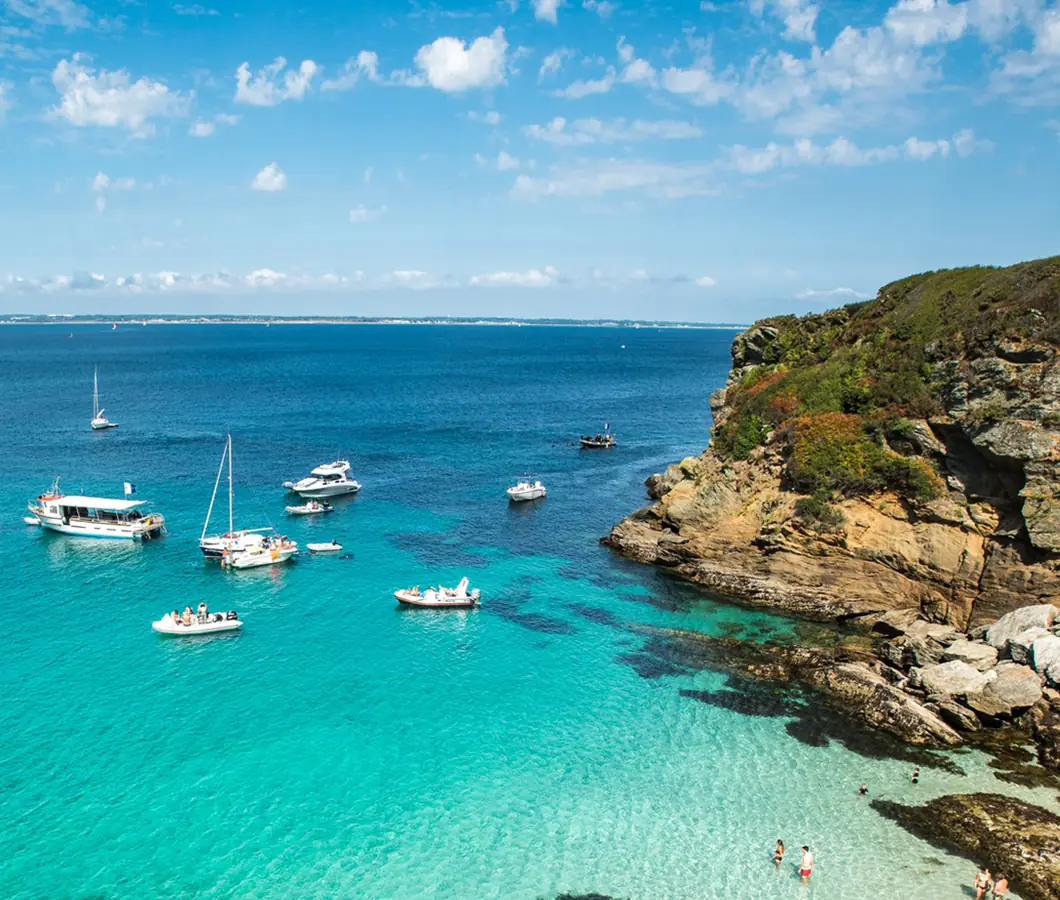
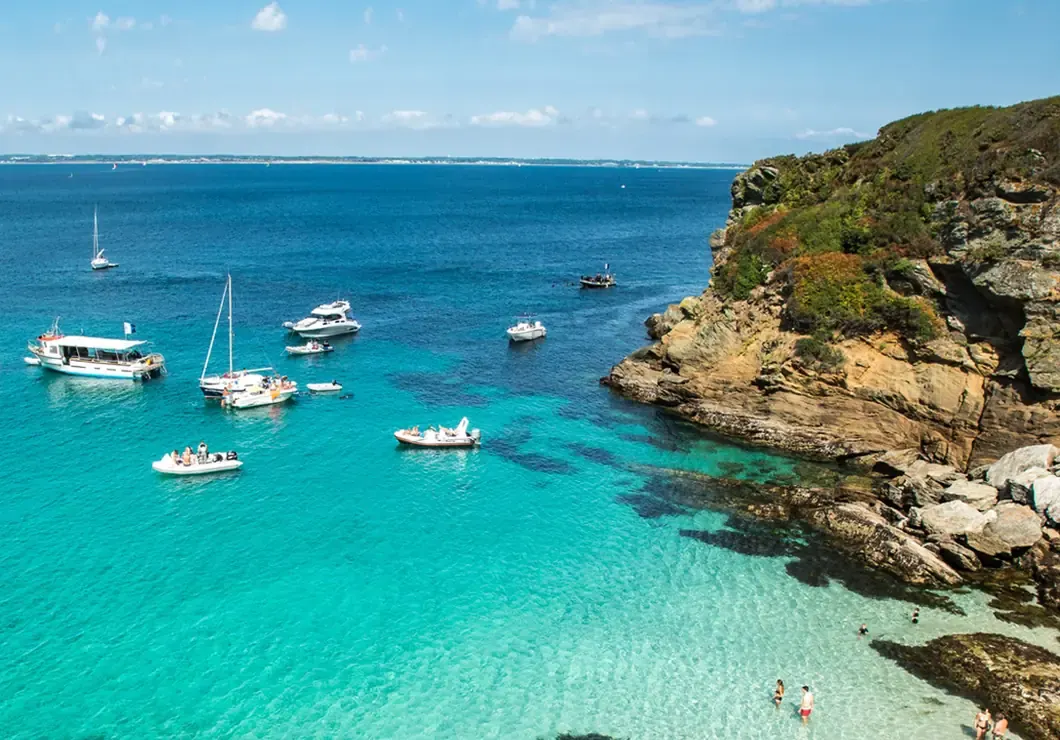
Add files via upload

diff --git a/index.html b/index.html
@@ -10,7 +10,7 @@
 <style>:root{--bg:#f6f8fb;--ink:#172033;--muted:#697586;--line:#e4e8ef;--card:#fff;--accent:#2563eb;--soft:#eef4ff}
 *{box-sizing:border-box}html,body{margin:0;min-height:100%;font-family:system-ui,-apple-system,BlinkMacSystemFont,"Segoe UI",sans-serif;background:var(--bg);color:var(--ink)}body{overflow-x:hidden}button,input,select{font:inherit}button{cursor:pointer}
 header{padding:20px max(18px,calc((100vw - 1320px)/2 + 18px));background:linear-gradient(135deg,#fff,#f4f8ff);border-bottom:1px solid var(--line)}header h1{margin:0;font-size:28px;letter-spacing:-.7px}header .sub{margin-top:5px;color:var(--muted);font-size:14px}.app{max-width:1320px;margin:auto;padding:18px}.screen{display:none}.screen.active{display:block}
-.search-card{max-width:720px;margin:28px auto;background:var(--card);border:1px solid var(--line);border-radius:24px;padding:24px;box-shadow:0 8px 30px #1720330b}.search-card h2{margin:0;font-size:24px}.search-card .intro{color:var(--muted);margin:6px 0 22px;font-size:14px}.field{margin:13px 0}.field label{display:block;font-size:12px;font-weight:800;color:var(--muted);margin-bottom:6px}.field input,.field select{height:46px;width:100%;border:1px solid #cfd6e1;border-radius:12px;padding:0 12px;background:#fff;color:var(--ink)}.grid2{display:grid;grid-template-columns:1fr 1fr;gap:12px}.transport{display:grid;grid-template-columns:repeat(4,1fr);gap:7px}.transport button{height:44px;border:1px solid #d4dbe6;border-radius:12px;background:#fff;color:var(--muted);font-weight:700}.transport button.active{background:var(--soft);border-color:#82aefc;color:#1e5fc7}.primary{height:48px;width:100%;border:0;border-radius:14px;background:#2563eb;color:#fff;font-weight:800;font-size:15px;margin-top:10px}.secondary{height:40px;border:1px solid #cfd6e1;border-radius:11px;background:#fff;color:var(--ink);font-weight:700;padding:0 12px}.locate{margin-top:8px;width:100%}.status{font-size:12px;color:var(--muted);margin:9px 2px}.results-layout{display:grid;grid-template-columns:minmax(0,1.45fr) minmax(360px,.75fr);gap:14px}.map-card{background:#fff;border:1px solid var(--line);border-radius:20px;overflow:hidden;box-shadow:0 4px 18px #17203308}#map{height:620px}.map-top{padding:11px 13px;border-bottom:1px solid var(--line);display:flex;align-items:center;justify-content:space-between;gap:10px}.trip-chip{font-size:12px;color:var(--muted)}.results-panel{background:#fff;border:1px solid var(--line);border-radius:20px;padding:14px}.results-title{display:flex;align-items:center;justify-content:space-between;margin-bottom:8px}.results-title h2{font-size:19px;margin:0}.result{border:1px solid var(--line);border-radius:15px;padding:11px;margin:8px 0;cursor:pointer;background:#fff}.result:hover{background:#fafcff}.result.active{border-color:#8fb5ff;box-shadow:0 0 0 2px #2563eb12;background:#f8fbff}.result-row{display:grid;grid-template-columns:48px 1fr auto;gap:10px;align-items:center}.weather-icon{width:48px;height:48px}.weather-icon svg{width:48px;height:48px}.result-name{font-weight:850}.result-meta{font-size:11px;color:var(--muted);margin-top:3px}.score{font-size:16px;font-weight:900}.score small{font-size:10px;color:var(--muted);font-weight:700}.score-bar{height:5px;background:#edf0f4;border-radius:8px;margin-top:8px;overflow:hidden}.score-bar i{display:block;height:100%}.result-tags{display:flex;gap:5px;flex-wrap:wrap;margin-top:7px}.pill{font-size:10px;background:#f2f4f7;border-radius:20px;padding:4px 7px}.map-marker{width:48px!important;height:48px!important;margin:-24px 0 0 -24px!important;border-radius:50%;background:#fff;border:3px solid #fff;box-shadow:0 3px 12px #17203333;display:flex;align-items:center;justify-content:center}.map-marker svg{width:42px;height:42px}.map-marker.best{width:56px!important;height:56px!important;margin:-28px 0 0 -28px!important}.map-marker.best svg{width:50px;height:50px}.departure-marker{font-size:23px;width:40px!important;height:40px!important;margin:-20px 0 0 -20px!important;border-radius:50%;background:#172033;color:#fff;border:3px solid #fff;display:flex;align-items:center;justify-content:center;box-shadow:0 3px 10px #17203355}.legend{background:#fff;padding:9px 10px;border-radius:12px;box-shadow:0 2px 9px #0002;font-size:10px;color:var(--muted);line-height:1.6}.detail-screen{position:fixed;inset:0;background:#f7f9fc;z-index:1000;overflow:auto;display:none}.detail-screen.open{display:block}.detail-inner{max-width:760px;margin:auto;padding:14px 16px 30px}.detail-nav{display:flex;align-items:center;justify-content:space-between;gap:10px;margin-bottom:10px}.detail-hero{background:#fff;border:1px solid var(--line);border-radius:20px;padding:18px}.detail-title{display:flex;align-items:center;gap:12px}.detail-title .weather-icon{width:64px;height:64px}.detail-title .weather-icon svg{width:64px;height:64px}.detail-title h2{margin:0;font-size:25px}.detail-score{margin-left:auto;text-align:right}.detail-score strong{font-size:28px}.detail-score span{display:block;font-size:11px;color:var(--muted)}.metrics{display:grid;grid-template-columns:repeat(4,1fr);gap:8px;margin-top:15px}.metric{background:#f5f7fa;border-radius:13px;padding:10px;text-align:center}.metric b{display:block;font-size:17px}.metric span{font-size:10px;color:var(--muted)}.detail-section{background:#fff;border:1px solid var(--line);border-radius:18px;padding:15px;margin-top:12px}.detail-section h3{font-size:16px;margin:0 0 10px}.reason{display:flex;gap:8px;font-size:12px;margin:8px 0}.reason b{color:#2e9d59}.score-breakdown{display:grid;gap:8px}.score-line{display:grid;grid-template-columns:105px 1fr 38px;gap:8px;align-items:center;font-size:11px}.score-line .track{height:7px;background:#edf0f4;border-radius:10px;overflow:hidden}.score-line i{display:block;height:100%;background:#5b8def}.day{border:1px solid var(--line);border-radius:13px;padding:11px;margin:8px 0}.day-head{display:flex;justify-content:space-between;align-items:center}.day-weather{display:flex;align-items:center;gap:7px;font-weight:800}.day-weather .weather-icon{width:34px;height:34px}.day-weather .weather-icon svg{width:34px;height:34px}.hours{display:flex;gap:5px;overflow:auto;margin-top:8px}.hour{min-width:50px;text-align:center;background:#f5f7fa;border-radius:8px;padding:6px;font-size:10px}.hour svg{width:22px;height:22px}.back{height:38px}.desktop-note{font-size:11px;color:var(--muted)}
+.search-card{max-width:720px;margin:28px auto;background:var(--card);border:1px solid var(--line);border-radius:24px;padding:24px;box-shadow:0 8px 30px #1720330b}.search-card h2{margin:0;font-size:24px}.search-card .intro{color:var(--muted);margin:6px 0 22px;font-size:14px}.field{margin:13px 0}.field label{display:block;font-size:12px;font-weight:800;color:var(--muted);margin-bottom:6px}.field input,.field select{height:46px;width:100%;border:1px solid #cfd6e1;border-radius:12px;padding:0 12px;background:#fff;color:var(--ink)}.grid2{display:grid;grid-template-columns:1fr 1fr;gap:12px}.transport{display:grid;grid-template-columns:repeat(4,1fr);gap:7px}.transport button{height:44px;border:1px solid #d4dbe6;border-radius:12px;background:#fff;color:var(--muted);font-weight:700}.transport button.active{background:var(--soft);border-color:#82aefc;color:#1e5fc7}.primary{height:48px;width:100%;border:0;border-radius:14px;background:#2563eb;color:#fff;font-weight:800;font-size:15px;margin-top:10px}.secondary{height:40px;border:1px solid #cfd6e1;border-radius:11px;background:#fff;color:var(--ink);font-weight:700;padding:0 12px}.locate{margin-top:8px;width:100%}.status{font-size:12px;color:var(--muted);margin:9px 2px}.results-layout{display:grid;grid-template-columns:minmax(0,1.45fr) minmax(360px,.75fr);gap:14px}.map-card{background:#fff;border:1px solid var(--line);border-radius:20px;overflow:hidden;box-shadow:0 4px 18px #17203308}#map{height:620px}.map-top{padding:11px 13px;border-bottom:1px solid var(--line);display:flex;align-items:center;justify-content:space-between;gap:10px}.trip-chip{font-size:12px;color:var(--muted)}.results-panel{background:#fff;border:1px solid var(--line);border-radius:20px;padding:14px}.results-title{display:flex;align-items:center;justify-content:space-between;margin-bottom:8px}.results-title h2{font-size:19px;margin:0}.result{border:1px solid var(--line);border-radius:15px;padding:11px;margin:8px 0;cursor:pointer;background:#fff}.result:hover{background:#fafcff}.result.active{border-color:#8fb5ff;box-shadow:0 0 0 2px #2563eb12;background:#f8fbff}.result-row{display:grid;grid-template-columns:48px 1fr auto;gap:10px;align-items:center}.weather-icon{width:48px;height:48px}.weather-icon svg{width:48px;height:48px}.result-name{font-weight:850}.result-meta{font-size:11px;color:var(--muted);margin-top:3px}.score{font-size:16px;font-weight:900}.score small{font-size:10px;color:var(--muted);font-weight:700}.score-bar{height:5px;background:#edf0f4;border-radius:8px;margin-top:8px;overflow:hidden}.score-bar i{display:block;height:100%}.result-tags{display:flex;gap:5px;flex-wrap:wrap;margin-top:7px}.pill{font-size:10px;background:#f2f4f7;border-radius:20px;padding:4px 7px}.map-marker{width:48px!important;height:48px!important;margin:-24px 0 0 -24px!important;border-radius:50%;background:#fff;border:3px solid #fff;box-shadow:0 3px 12px #17203333;display:flex;align-items:center;justify-content:center}.map-marker svg{width:42px;height:42px}.map-marker.best{width:56px!important;height:56px!important;margin:-28px 0 0 -28px!important}.map-marker.best svg{width:50px;height:50px}.departure-marker{font-size:23px;width:40px!important;height:40px!important;margin:-20px 0 0 -20px!important;border-radius:50%;background:#172033;color:#fff;border:3px solid #fff;display:flex;align-items:center;justify-content:center;box-shadow:0 3px 10px #17203355}.legend{background:#fff;padding:9px 10px;border-radius:12px;box-shadow:0 2px 9px #0002;font-size:10px;color:var(--muted);line-height:1.6}.detail-screen{position:fixed;inset:0;background:#f7f9fc;z-index:1000;overflow:auto;display:none}.detail-screen.open{display:block}.detail-inner{max-width:760px;margin:auto;padding:14px 16px 30px}.detail-nav{display:flex;align-items:center;justify-content:space-between;gap:10px;margin-bottom:10px}.detail-hero{background:#fff;border:1px solid var(--line);border-radius:20px;padding:18px}.detail-title{display:flex;align-items:center;gap:12px}.detail-title .weather-icon{width:64px;height:64px}.detail-title .weather-icon svg{width:64px;height:64px}.detail-title h2{margin:0;font-size:25px}.detail-score{margin-left:auto;text-align:right}.detail-score strong{font-size:28px}.detail-score span{display:block;font-size:11px;color:var(--muted)}.metrics{display:grid;grid-template-columns:repeat(4,1fr);gap:8px;margin-top:15px}.metric{background:#f5f7fa;border-radius:13px;padding:10px;text-align:center}.metric b{display:block;font-size:17px}.metric span{font-size:10px;color:var(--muted)}.detail-section{background:#fff;border:1px solid var(--line);border-radius:18px;padding:15px;margin-top:12px}.detail-section h3{font-size:16px;margin:0 0 11px}.reason{display:flex;gap:8px;font-size:12px;margin:8px 0}.reason b{color:#2e9d59}.score-breakdown{display:grid;gap:8px}.score-line{display:grid;grid-template-columns:105px 1fr 38px;gap:8px;align-items:center;font-size:11px}.score-line .track{height:7px;background:#edf0f4;border-radius:10px;overflow:hidden}.score-line i{display:block;height:100%;background:#5b8def}.day{border:1px solid var(--line);border-radius:13px;padding:11px;margin:8px 0}.day-head{display:flex;justify-content:space-between;align-items:center}.day-weather{display:flex;align-items:center;gap:7px;font-weight:800}.day-weather .weather-icon{width:34px;height:34px}.day-weather .weather-icon svg{width:34px;height:34px}.hours{display:flex;gap:5px;overflow:auto;margin-top:8px}.hour{min-width:50px;text-align:center;background:#f5f7fa;border-radius:8px;padding:6px;font-size:10px}.hour svg{width:22px;height:22px}.back{height:38px}.desktop-note{font-size:11px;color:var(--muted)}
 @media(max-width:800px){header{padding:15px 14px}.app{padding:0}.search-card{margin:0;border:0;border-radius:0;box-shadow:none;padding:18px 14px 30px}.search-card h2{font-size:23px}.results-layout{display:block}.map-card{border-radius:0;border-left:0;border-right:0;box-shadow:none}.map-top{padding:9px 12px}#map{height:48vh;min-height:330px;max-height:520px}.results-panel{border:0;border-radius:20px 20px 0 0;margin-top:-16px;position:relative;z-index:5;padding:14px 12px 28px;box-shadow:0 -5px 20px #17203318}.results-panel .desktop-note{display:none}.result{padding:10px}.result-row{grid-template-columns:44px 1fr auto}.weather-icon,.weather-icon svg{width:44px;height:44px}.metrics{grid-template-columns:repeat(2,1fr)}.detail-inner{padding:10px 12px 25px}.detail-title{align-items:flex-start}.detail-score strong{font-size:25px}.score-line{grid-template-columns:88px 1fr 34px}.transport{grid-template-columns:repeat(2,1fr)}.grid2{grid-template-columns:1fr}.leaflet-control-zoom{display:none}.legend{font-size:9px}.trip-chip{font-size:10px}}
 
 .results-panel .head{display:flex;justify-content:space-between;gap:8px;font-weight:850;font-size:14px}.results-panel .meta{font-size:11px;color:var(--muted);margin-top:4px}.results-panel .pills{display:flex;gap:5px;flex-wrap:wrap;margin-top:7px}.results-panel .bar{height:5px;background:#edf0f4;border-radius:8px;margin-top:8px;overflow:hidden}.results-panel .bar i{display:block;height:100%}.detail-head{display:flex;justify-content:space-between;align-items:center;margin-bottom:10px}.detail-card{background:#fff;border:1px solid var(--line);border-radius:20px;padding:16px}.detail-card h2{margin:0 0 5px;font-size:24px}.detail-summary{padding-bottom:5px}.back-btn{height:38px}.mini{font-size:11px;color:var(--muted)}
@@ -20,19 +20,19 @@ header{padding:20px max(18px,calc((100vw - 1320px)/2 + 18px));background:linear-
 html,body{background:#eaf6f8}
 .search-screen{position:relative;width:100%;height:100svh;min-height:620px;overflow:hidden;color:#172033;background:#eaf6f8;font-family:var(--ui-font)}
 /* Photo volontairement limitée à la partie haute : le reste devient progressivement une teinte unie. */
-.search-background{position:absolute;z-index:0;left:0;right:0;top:0;height:69%;background-image:linear-gradient(to bottom,rgba(234,246,248,0) 0%,rgba(234,246,248,.02) 48%,rgba(234,246,248,.35) 70%,#eaf6f8 100%),url('fond-optimise.webp');background-repeat:no-repeat;background-size:100% 100%,cover;background-position:center top,center top}
+.search-background{position:absolute;z-index:0;left:0;right:0;top:0;height:61%;background-image:linear-gradient(to bottom,rgba(234,246,248,0) 0%,rgba(234,246,248,.02) 48%,rgba(234,246,248,.35) 70%,#eaf6f8 100%),url('fond-optimise.webp');background-repeat:no-repeat;background-size:100% 100%,cover;background-position:center top,center top}
 .search-scrim{position:absolute;z-index:1;inset:0;background:linear-gradient(to bottom,rgba(0,49,76,.04) 0%,rgba(0,49,76,0) 34%,rgba(234,246,248,0) 48%,rgba(234,246,248,.08) 65%,#eaf6f8 80%);pointer-events:none}
-.search-brand{position:absolute;z-index:3;top:4.8%;left:50%;transform:translateX(-50%);display:flex;align-items:center;gap:10px;color:#fff;text-align:left;width:max-content;text-shadow:0 2px 10px rgba(0,35,55,.42);background:transparent!important;border:0!important;border-radius:0!important;padding:0!important;box-shadow:none!important;backdrop-filter:none!important}
-.brand-mark{width:52px;height:52px;filter:drop-shadow(0 2px 5px rgba(0,45,70,.18))}.brand-mark svg{width:100%;height:100%}.brand-copy h1{margin:0;font-size:32px;line-height:1;font-weight:900;letter-spacing:-.8px}.brand-copy p{margin:5px 0 0;font-size:13px;font-weight:700;white-space:nowrap}
-.search-card{position:absolute;z-index:4;left:50%;top:27.8%;transform:translateX(-50%);width:min(92vw,470px);max-width:470px;margin:0;padding:18px 18px 15px;background:rgba(255,255,255,.975);border:1px solid rgba(255,255,255,.95);border-radius:23px;box-shadow:0 14px 38px rgba(9,55,76,.17);backdrop-filter:blur(5px)}
-.search-card .field-compact{margin:0 0 10px;position:relative}.search-card label{display:block;margin:0 0 5px 3px;color:#566274;font-size:12px;line-height:1.1;font-weight:800;letter-spacing:.05px}.city-control,.select-wrap{height:47px;border:1px solid #d4dce6;border-radius:13px;background:#fff;display:flex;align-items:center;position:relative}.city-control:focus-within,.select-wrap:focus-within{border-color:#78a6df;box-shadow:0 0 0 3px rgba(37,99,235,.07)}
-.field-icon,.field-symbol{width:35px;flex:0 0 35px;text-align:center;color:#2563eb;font-size:17px;font-weight:800}.city-control input,.select-wrap input,.select-wrap select{border:0;outline:0;background:transparent;width:100%;height:100%;min-width:0;padding:0 5px;color:#172033;font-family:var(--ui-font);font-size:16.5px;font-weight:750}.select-wrap select{appearance:none;padding-right:28px;cursor:pointer}.select-wrap:after{content:'⌄';position:absolute;right:11px;color:#667085;font-size:15px;pointer-events:none}.select-wrap input{padding-right:8px}.icon-button,.city-toggle{width:35px;height:35px;flex:0 0 35px;border:0;background:transparent;color:#2563eb;display:flex;align-items:center;justify-content:center;padding:0}.icon-button svg{width:20px;height:20px}.city-toggle{font-size:19px;color:#667085}
-.compact-grid{display:grid;grid-template-columns:1fr 1fr;gap:9px;margin-bottom:10px}.city-dropdown{display:none;position:absolute;left:0;right:0;top:calc(100% + 5px);z-index:20;background:#fff;border:1px solid #d4dce6;border-radius:13px;box-shadow:0 12px 30px rgba(20,35,55,.15);max-height:190px;overflow:auto;padding:5px}.city-dropdown.open{display:block}.city-option{padding:10px 12px;border-radius:9px;font-size:14px;font-weight:600;cursor:pointer}.city-option:hover,.city-option.highlight{background:#eef5ff;color:#175cc2}
-.transport-field{margin-top:1px}.transport-field>label{margin-bottom:5px}.transport{display:grid;grid-template-columns:repeat(4,1fr);gap:7px}.transport button{height:52px;border:1px solid #d4dce6;border-radius:13px;background:#fff;color:#667085;font-family:var(--ui-font);font-weight:800;padding:4px 2px;display:flex;flex-direction:column;align-items:center;justify-content:center;gap:1px}.transport button.active{background:#eef5ff;border-color:#78a8ee;color:#1d62c9;box-shadow:inset 0 0 0 1px rgba(37,99,235,.08)}.transport-icon{font-size:21px;line-height:20px}.transport-icon.plus{font-size:24px;line-height:18px}.transport small{font-size:10px;line-height:13px}
-.primary.search-button{height:50px;margin-top:11px;border-radius:14px;background:#1769e0;box-shadow:0 6px 14px rgba(23,105,224,.2);font-family:var(--ui-font);font-size:15px;font-weight:900;letter-spacing:.02px}.primary.search-button:hover{background:#1260d1}.search-button span{font-size:21px;vertical-align:-2px;margin-right:3px}.search-card .status{margin:7px 2px 0;text-align:center;font-size:9.5px;line-height:1.25;color:#7d8898;min-height:11px}
+.search-brand{position:absolute;z-index:3;top:4.8%;left:50%;transform:translateX(-50%);display:flex;align-items:center;gap:10px;color:#16324f;text-align:left;width:max-content;text-shadow:0 1px 4px rgba(255,255,255,.22);background:transparent!important;border:0!important;border-radius:0!important;padding:0!important;box-shadow:none!important;backdrop-filter:none!important}
+.brand-mark{width:52px;height:52px;filter:drop-shadow(0 2px 5px rgba(0,45,70,.18))}.brand-mark svg{width:100%;height:100%}.brand-copy h1{margin:0;font-size:36px;line-height:1;font-weight:900;letter-spacing:-.8px}.brand-copy p{margin:5px 0 0;font-size:14px;font-weight:750;white-space:nowrap}
+.search-card{position:absolute;z-index:4;left:50%;top:24.2%;transform:translateX(-50%);width:min(92vw,470px);max-width:470px;margin:0;padding:18px 18px 15px;background:rgba(255,255,255,.975);border:1px solid rgba(255,255,255,.95);border-radius:23px;box-shadow:0 14px 38px rgba(9,55,76,.17);backdrop-filter:blur(5px)}
+.search-card .field-compact{margin:0 0 11px;position:relative}.search-card label{display:block;margin:0 0 5px 3px;color:#566274;font-size:13px;line-height:1.1;font-weight:800;letter-spacing:.05px}.city-control,.select-wrap{height:49px;border:1px solid #d4dce6;border-radius:13px;background:#fff;display:flex;align-items:center;position:relative}.city-control:focus-within,.select-wrap:focus-within{border-color:#78a6df;box-shadow:0 0 0 3px rgba(37,99,235,.07)}
+.field-icon,.field-symbol{width:35px;flex:0 0 35px;text-align:center;color:#2563eb;font-size:17px;font-weight:800}.city-control input,.select-wrap input,.select-wrap select{border:0;outline:0;background:transparent;width:100%;height:100%;min-width:0;padding:0 5px;color:#172033;font-family:var(--ui-font);font-size:17.5px;font-weight:750}.select-wrap select{appearance:none;padding-right:28px;cursor:pointer}.select-wrap:after{content:'⌄';position:absolute;right:11px;color:#667085;font-size:15px;pointer-events:none}.select-wrap input{padding-right:8px}.icon-button,.city-toggle{width:35px;height:35px;flex:0 0 35px;border:0;background:transparent;color:#2563eb;display:flex;align-items:center;justify-content:center;padding:0}.icon-button svg{width:20px;height:20px}.city-toggle{font-size:19px;color:#667085}
+.compact-grid{display:grid;grid-template-columns:1fr 1fr;gap:10px;margin-bottom:11px}.city-dropdown{display:none;position:absolute;left:0;right:0;top:calc(100% + 5px);z-index:20;background:#fff;border:1px solid #d4dce6;border-radius:13px;box-shadow:0 12px 30px rgba(20,35,55,.15);max-height:190px;overflow:auto;padding:5px}.city-dropdown.open{display:block}.city-option{padding:10px 12px;border-radius:9px;font-size:14px;font-weight:600;cursor:pointer}.city-option:hover,.city-option.highlight{background:#eef5ff;color:#175cc2}
+.transport-field{margin-top:1px}.transport-field>label{margin-bottom:5px}.transport{display:grid;grid-template-columns:repeat(4,1fr);gap:7px}.transport button{height:54px;border:1px solid #d4dce6;border-radius:13px;background:#fff;color:#667085;font-family:var(--ui-font);font-weight:800;padding:4px 2px;display:flex;flex-direction:column;align-items:center;justify-content:center;gap:1px}.transport button.active{background:#eef5ff;border-color:#78a8ee;color:#1d62c9;box-shadow:inset 0 0 0 1px rgba(37,99,235,.08)}.transport-icon{font-size:22px;line-height:20px}.transport-icon.plus{font-size:24px;line-height:18px}.transport small{font-size:11px;line-height:13px}
+.primary.search-button{height:51px;margin-top:12px;border-radius:14px;background:#1769e0;box-shadow:0 6px 14px rgba(23,105,224,.2);font-family:var(--ui-font);font-size:16px;font-weight:900;letter-spacing:.02px}.primary.search-button:hover{background:#1260d1}.search-button span{font-size:21px;vertical-align:-2px;margin-right:3px}.search-card .status{margin:7px 2px 0;text-align:center;font-size:9.5px;line-height:1.25;color:#7d8898;min-height:11px}
 .search-wave{position:absolute;z-index:2;left:0;right:0;bottom:8%;height:65px;pointer-events:none;opacity:.38}.search-wave svg{width:100%;height:100%}
-@media(max-width:600px){.search-screen{min-height:600px}.search-background{height:68%;background-size:100% 100%,auto 100%;background-position:center top,center top}.search-brand{top:4.2%;gap:8px}.brand-mark{width:46px;height:46px}.brand-copy h1{font-size:30px}.brand-copy p{font-size:12px;margin-top:4px}.search-card{top:27.2%;width:calc(100vw - 24px);padding:17px 15px 13px;border-radius:21px}.search-card .field-compact{margin-bottom:8px}.search-card label{font-size:11.5px}.city-control,.select-wrap{height:45px}.field-icon,.field-symbol{width:32px;flex-basis:32px;font-size:16px}.city-control input,.select-wrap input,.select-wrap select{font-size:15.5px}.compact-grid{gap:8px;margin-bottom:8px}.transport button{height:49px}.transport-icon{font-size:19px}.transport small{font-size:9px}.primary.search-button{height:47px;margin-top:9px}.search-card .status{font-size:8.5px}.search-wave{height:52px;bottom:8%}}
-@media(max-height:700px){.search-brand{top:2.8%}.brand-mark{width:41px;height:41px}.brand-copy h1{font-size:27px}.brand-copy p{font-size:10.5px}.search-card{top:22.5%;padding:12px 13px 9px}.search-card .field-compact{margin-bottom:6px}.search-card label{font-size:10.5px}.city-control,.select-wrap{height:39px}.city-control input,.select-wrap input,.select-wrap select{font-size:14px}.transport button{height:42px}.transport-icon{font-size:17px}.transport small{font-size:8px}.primary.search-button{height:41px;margin-top:6px;font-size:13px}.search-card .status{display:none}.search-wave{display:none}}
+@media(max-width:600px){.search-screen{min-height:600px}.search-background{height:61%;background-size:100% 100%,auto 100%;background-position:center top,center top}.search-brand{top:3.4%;gap:9px}.brand-mark{width:52px;height:52px}.brand-copy h1{font-size:34px}.brand-copy p{font-size:13px;margin-top:4px}.search-card{top:23.8%;width:calc(100vw - 24px);padding:18px 15px 15px;border-radius:21px}.search-card .field-compact{margin-bottom:10px}.search-card label{font-size:12.5px}.city-control,.select-wrap{height:48px}.field-icon,.field-symbol{width:32px;flex-basis:32px;font-size:16px}.city-control input,.select-wrap input,.select-wrap select{font-size:17px}.compact-grid{gap:9px;margin-bottom:10px}.transport button{height:52px}.transport-icon{font-size:21px}.transport small{font-size:10px}.primary.search-button{height:49px;margin-top:10px;font-size:15px}.search-card .status{font-size:8.5px}.search-wave{height:52px;bottom:8%}}
+@media(max-height:700px){.search-brand{top:2.8%}.brand-mark{width:41px;height:41px}.brand-copy h1{font-size:27px}.brand-copy p{font-size:10.5px}.search-card{top:21%;padding:13px 13px 10px}.search-card .field-compact{margin-bottom:6px}.search-card label{font-size:11px}.city-control,.select-wrap{height:41px}.city-control input,.select-wrap input,.select-wrap select{font-size:15px}.transport button{height:44px}.transport-icon{font-size:17px}.transport small{font-size:8px}.primary.search-button{height:42px;margin-top:7px;font-size:14px}.search-card .status{display:none}.search-wave{display:none}}
 @media(min-width:801px){.search-screen{min-height:680px}.search-background{height:70%;background-size:100% 100%,cover}.search-brand{top:5.5%}.search-card{top:29%;width:430px}.search-wave{height:80px;bottom:9%}}
 .search-brand *{background:transparent!important}
 </style><script src="https://unpkg.com/leaflet@1.9.4/dist/leaflet.js"></script>
@@ -76,7 +76,7 @@ html,body{background:#eaf6f8}
         <button type="button" data-transport="car" class="active"><span class="transport-icon">🚗</span><small>Voiture</small></button>
         <button type="button" data-transport="train"><span class="transport-icon">🚆</span><small>Train</small></button>
         <button type="button" data-transport="bike"><span class="transport-icon">🚲</span><small>Vélo</small></button>
-        <button type="button" data-transport="any"><span class="transport-icon plus">＋</span><small>Autre</small></button>
+        <button type="button" data-transport="any"><span class="transport-icon">✈</span><small>Avion</small></button>
       </div></div>
       <input type="hidden" id="transport" value="car">
       <button type="button" id="go" class="primary search-button"><span>⌕</span> Trouver où partir</button>
